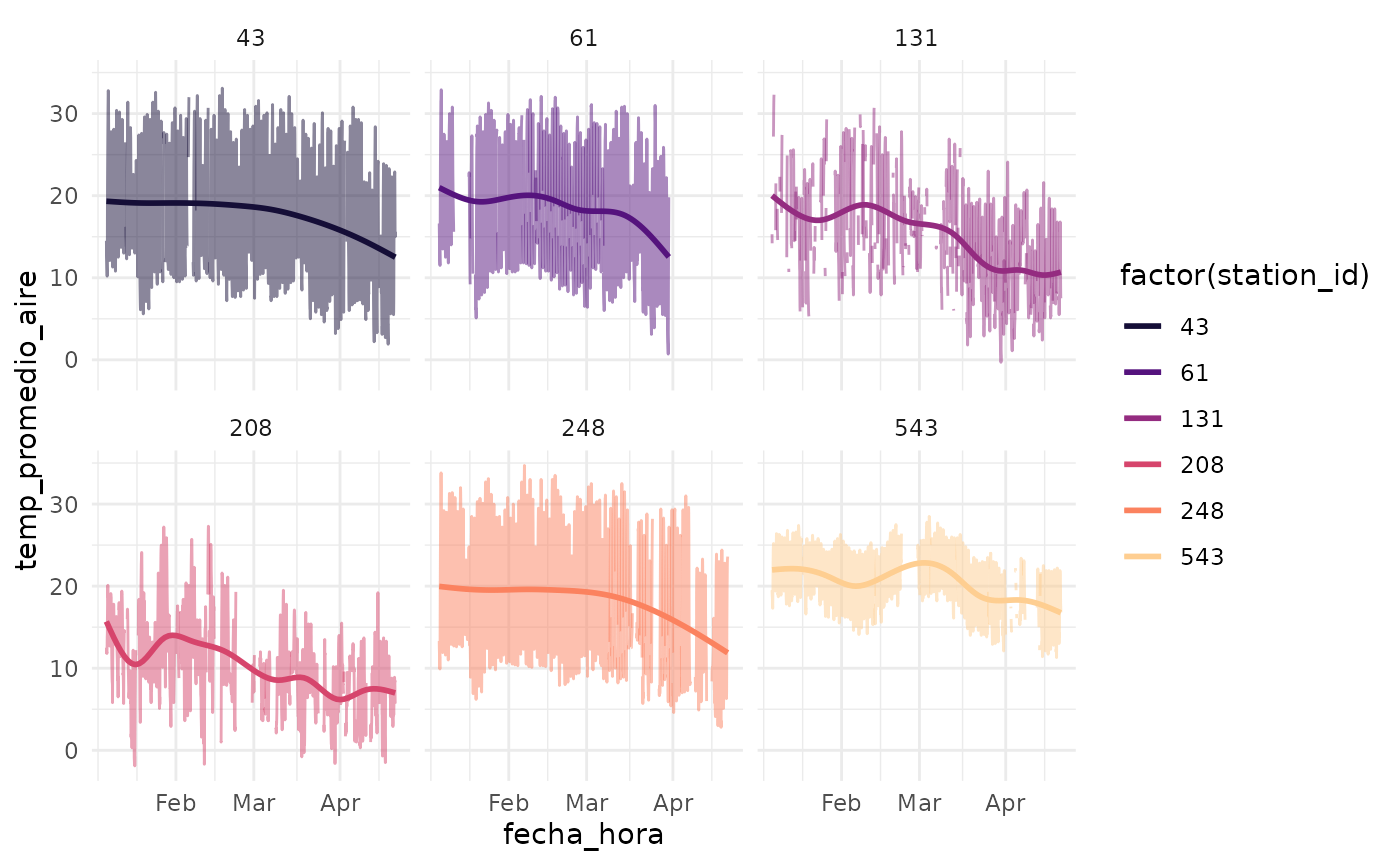
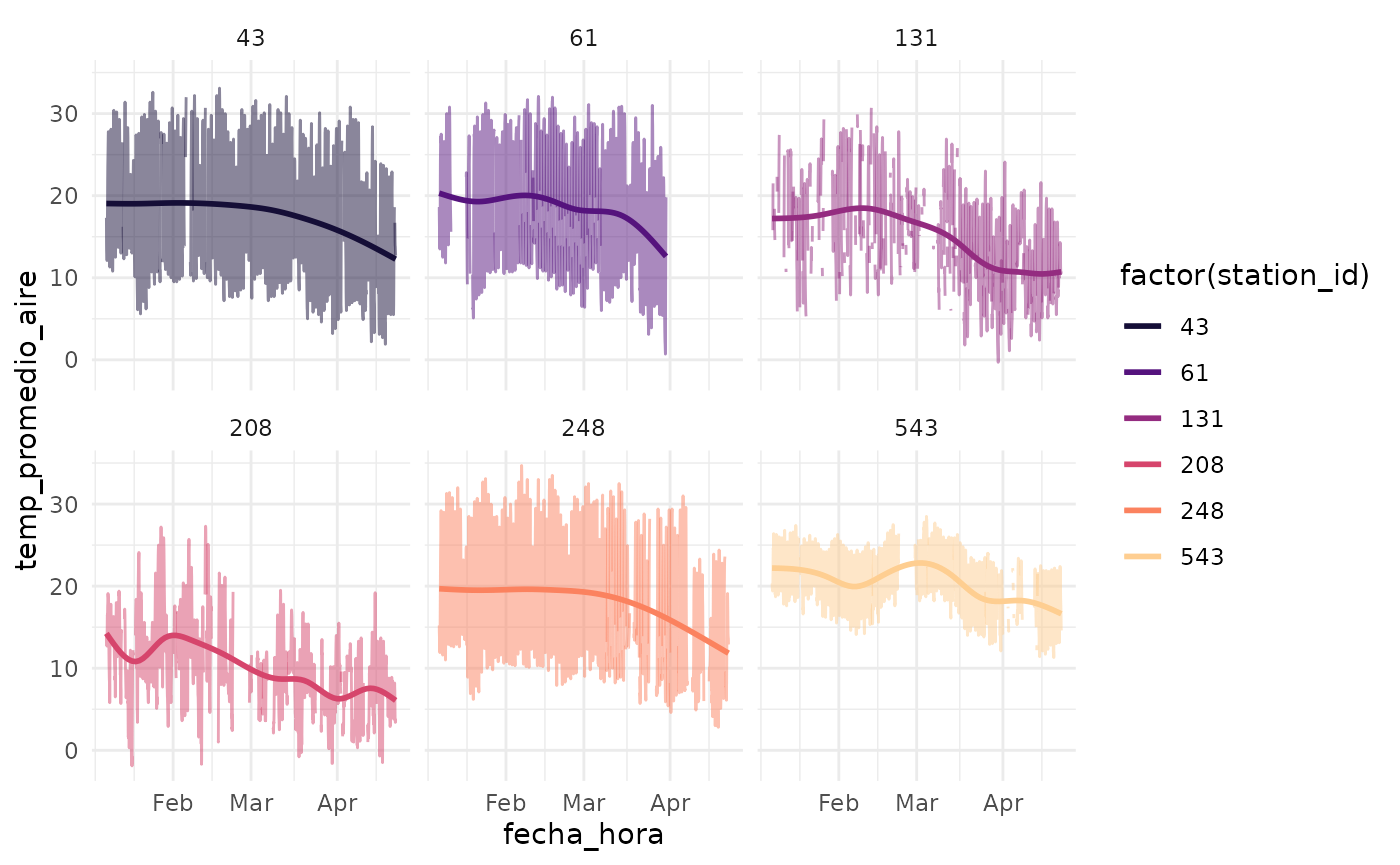
Built site for agrometR: 0.0.0.9000@f2fb011

diff --git a/articles/Introduction-to-agrometR.html b/articles/Introduction-to-agrometR.html
@@ -124,11 +124,11 @@
 
 <span class="va">date_time_start</span> <span class="op">&lt;-</span> <span class="fu"><a href="https://rdrr.io/r/base/format.html" class="external-link">format</a></span><span class="op">(</span><span class="fu"><a href="https://rdrr.io/r/base/Sys.time.html" class="external-link">Sys.Date</a></span><span class="op">(</span><span class="op">)</span> <span class="op">-</span> <span class="va">days_to_plot</span><span class="op">*</span><span class="fl">24</span><span class="op">*</span><span class="fl">60</span><span class="op">*</span><span class="fl">60</span><span class="op">/</span><span class="fl">100000</span>, <span class="st">"%Y-%m-%d"</span><span class="op">)</span>
 <span class="va">date_time_start</span>
-<span class="co">#&gt; [1] "2022-01-07"</span>
+<span class="co">#&gt; [1] "2022-01-08"</span>
 
 <span class="va">date_time_end</span> <span class="op">&lt;-</span> <span class="fu"><a href="https://rdrr.io/r/base/format.html" class="external-link">format</a></span><span class="op">(</span><span class="fu"><a href="https://rdrr.io/r/base/Sys.time.html" class="external-link">Sys.Date</a></span><span class="op">(</span><span class="op">)</span>, <span class="st">"%Y-%m-%d"</span><span class="op">)</span>
 <span class="va">date_time_end</span>
-<span class="co">#&gt; [1] "2022-04-21"</span>
+<span class="co">#&gt; [1] "2022-04-22"</span>
 
 <span class="va">data_stations</span> <span class="op">&lt;-</span> <span class="fu"><a href="../reference/get_agro_data.html">get_agro_data</a></span><span class="op">(</span>
   stations_id <span class="op">=</span> <span class="va">stations</span>, 
@@ -141,17 +141,17 @@
 <span class="co">#&gt; Rows: 14,976</span>
 <span class="co">#&gt; Columns: 13</span>
 <span class="co">#&gt; $ station_id            <span style="color: #949494; font-style: italic;">&lt;dbl&gt;</span> 43, 43, 43, 43, 43, 43, 43, 43, 43, 43, 43, 43, …</span>
-<span class="co">#&gt; $ fecha_hora            <span style="color: #949494; font-style: italic;">&lt;dttm&gt;</span> 2022-01-07 00:00:00, 2022-01-07 01:00:00, 2022-…</span>
-<span class="co">#&gt; $ temp_promedio_aire    <span style="color: #949494; font-style: italic;">&lt;dbl&gt;</span> 14.5, 13.1, 12.4, 12.0, 11.3, 10.8, 10.2, 10.2, …</span>
+<span class="co">#&gt; $ fecha_hora            <span style="color: #949494; font-style: italic;">&lt;dttm&gt;</span> 2022-01-08 00:00:00, 2022-01-08 01:00:00, 2022-…</span>
+<span class="co">#&gt; $ temp_promedio_aire    <span style="color: #949494; font-style: italic;">&lt;dbl&gt;</span> 17.3, 16.2, 14.5, 13.4, 12.9, 12.1, 12.1, 12.2, …</span>
 <span class="co">#&gt; $ precipitacion_horaria <span style="color: #949494; font-style: italic;">&lt;dbl&gt;</span> 0, 0, 0, 0, 0, 0, 0, 0, 0, 0, 0, 0, 0, 0, 0, 0, …</span>
-<span class="co">#&gt; $ humed_rel_promedio    <span style="color: #949494; font-style: italic;">&lt;dbl&gt;</span> 79.2, 84.0, 86.2, 87.2, 87.2, 88.8, 89.0, 90.2, …</span>
-<span class="co">#&gt; $ presion_atmosferica   <span style="color: #949494; font-style: italic;">&lt;dbl&gt;</span> 1013.0, 1013.0, 1012.8, 1012.3, 1011.9, 1012.1, …</span>
-<span class="co">#&gt; $ radiacion_solar_max   <span style="color: #949494; font-style: italic;">&lt;dbl&gt;</span> 0.0, 0.0, 0.0, 0.0, 0.0, 0.0, 1.9, 28.0, 299.0, …</span>
-<span class="co">#&gt; $ veloc_max_viento      <span style="color: #949494; font-style: italic;">&lt;dbl&gt;</span> 0.0, 0.0, 0.0, 0.1, 0.0, 0.0, 0.0, 0.0, 0.5, 0.7…</span>
-<span class="co">#&gt; $ temp_minima           <span style="color: #949494; font-style: italic;">&lt;dbl&gt;</span> 13.9, 12.8, 12.1, 11.8, 11.1, 10.6, 10.0, 10.0, …</span>
-<span class="co">#&gt; $ temp_maxima           <span style="color: #949494; font-style: italic;">&lt;dbl&gt;</span> 15.2, 13.5, 12.7, 12.1, 11.8, 10.9, 10.4, 10.6, …</span>
-<span class="co">#&gt; $ direccion_del_viento  <span style="color: #949494; font-style: italic;">&lt;dbl&gt;</span> 180, 180, 180, 180, 180, 180, 180, 180, 180, 210…</span>
-<span class="co">#&gt; $ grados_dia            <span style="color: #949494; font-style: italic;">&lt;dbl&gt;</span> 868.35, NA, NA, NA, NA, NA, NA, NA, NA, NA, NA, …</span>
+<span class="co">#&gt; $ humed_rel_promedio    <span style="color: #949494; font-style: italic;">&lt;dbl&gt;</span> 75.8, 78.8, 83.2, 86.2, 87.8, 88.2, 89.0, 90.0, …</span>
+<span class="co">#&gt; $ presion_atmosferica   <span style="color: #949494; font-style: italic;">&lt;dbl&gt;</span> 1011.4, 1011.1, 1010.6, 1010.0, 1009.6, 1009.7, …</span>
+<span class="co">#&gt; $ radiacion_solar_max   <span style="color: #949494; font-style: italic;">&lt;dbl&gt;</span> 0.0, 0.0, 0.0, 0.0, 0.0, 0.0, 1.7, 34.3, 270.9, …</span>
+<span class="co">#&gt; $ veloc_max_viento      <span style="color: #949494; font-style: italic;">&lt;dbl&gt;</span> 0.1, 0.1, 0.0, 0.0, 0.0, 0.0, 0.0, 0.0, 1.3, 1.1…</span>
+<span class="co">#&gt; $ temp_minima           <span style="color: #949494; font-style: italic;">&lt;dbl&gt;</span> 16.9, 15.6, 13.8, 13.2, 12.6, 11.9, 11.9, 11.8, …</span>
+<span class="co">#&gt; $ temp_maxima           <span style="color: #949494; font-style: italic;">&lt;dbl&gt;</span> 17.7, 16.6, 15.1, 13.6, 13.1, 12.4, 12.1, 13.0, …</span>
+<span class="co">#&gt; $ direccion_del_viento  <span style="color: #949494; font-style: italic;">&lt;dbl&gt;</span> 180, 180, 180, 180, 180, 180, 180, 180, 180, 193…</span>
+<span class="co">#&gt; $ grados_dia            <span style="color: #949494; font-style: italic;">&lt;dbl&gt;</span> 879.85, NA, NA, NA, NA, NA, NA, NA, NA, NA, NA, …</span>
 <span class="co">#&gt; $ horas_frio            <span style="color: #949494; font-style: italic;">&lt;lgl&gt;</span> NA, NA, NA, NA, NA, NA, NA, NA, NA, NA, NA, NA, …</span>
 
 <span class="va">data_stations</span> |&gt; 
@@ -180,16 +180,16 @@
 
 <span class="va">p</span>
 <span class="co">#&gt; `geom_smooth()` using method = 'gam' and formula 'y ~ s(x, bs = "cs")'</span>
-<span class="co">#&gt; Warning: Removed 2947 rows containing non-finite values (stat_smooth).</span>
-<span class="co">#&gt; Warning: Removed 537 row(s) containing missing values (geom_path).</span></code></pre></div>
+<span class="co">#&gt; Warning: Removed 2944 rows containing non-finite values (stat_smooth).</span>
+<span class="co">#&gt; Warning: Removed 539 row(s) containing missing values (geom_path).</span></code></pre></div>
 <p><img src="Introduction-to-agrometR_files/figure-html/unnamed-chunk-4-1.png" width="700"></p>
 <div class="sourceCode" id="cb5"><pre class="downlit sourceCode r">
 <code class="sourceCode R">
 <span class="va">p</span> <span class="op">+</span>
   <span class="fu"><a href="https://ggplot2.tidyverse.org/reference/facet_wrap.html" class="external-link">facet_wrap</a></span><span class="op">(</span><span class="fu"><a href="https://ggplot2.tidyverse.org/reference/vars.html" class="external-link">vars</a></span><span class="op">(</span><span class="va">station_id</span><span class="op">)</span><span class="op">)</span>
 <span class="co">#&gt; `geom_smooth()` using method = 'gam' and formula 'y ~ s(x, bs = "cs")'</span>
-<span class="co">#&gt; Warning: Removed 2947 rows containing non-finite values (stat_smooth).</span>
-<span class="co">#&gt; Removed 537 row(s) containing missing values (geom_path).</span></code></pre></div>
+<span class="co">#&gt; Warning: Removed 2944 rows containing non-finite values (stat_smooth).</span>
+<span class="co">#&gt; Removed 539 row(s) containing missing values (geom_path).</span></code></pre></div>
 <p><img src="Introduction-to-agrometR_files/figure-html/unnamed-chunk-4-2.png" width="700"></p>
 </div>
 <div class="section level2">
@@ -216,9 +216,9 @@
 <span class="co">#&gt; Rows: 630</span>
 <span class="co">#&gt; Columns: 5</span>
 <span class="co">#&gt; $ station_id            <span style="color: #949494; font-style: italic;">&lt;dbl&gt;</span> 43, 43, 43, 43, 43, 43, 43, 43, 43, 43, 43, 43, …</span>
-<span class="co">#&gt; $ fecha_hora            <span style="color: #949494; font-style: italic;">&lt;dttm&gt;</span> 2022-01-07, 2022-01-08, 2022-01-09, 2022-01-10,…</span>
-<span class="co">#&gt; $ temp_promedio_aire    <span style="color: #949494; font-style: italic;">&lt;dbl&gt;</span> 21.17083, 19.61250, 18.57500, 19.83750, 21.44167…</span>
-<span class="co">#&gt; $ humed_rel_promedio    <span style="color: #949494; font-style: italic;">&lt;dbl&gt;</span> 62.46667, 69.16250, 72.80417, 67.96250, 66.45417…</span>
+<span class="co">#&gt; $ fecha_hora            <span style="color: #949494; font-style: italic;">&lt;dttm&gt;</span> 2022-01-08, 2022-01-09, 2022-01-10, 2022-01-11,…</span>
+<span class="co">#&gt; $ temp_promedio_aire    <span style="color: #949494; font-style: italic;">&lt;dbl&gt;</span> 19.61250, 18.57500, 19.83750, 21.44167, 20.80000…</span>
+<span class="co">#&gt; $ humed_rel_promedio    <span style="color: #949494; font-style: italic;">&lt;dbl&gt;</span> 69.16250, 72.80417, 67.96250, 66.45417, 70.64167…</span>
 <span class="co">#&gt; $ precipitacion_horaria <span style="color: #949494; font-style: italic;">&lt;dbl&gt;</span> 0.0, 0.0, 0.0, 0.0, 0.0, 0.0, 0.0, 0.0, 0.0, 0.0…</span>
   
 
@@ -229,8 +229,8 @@
   <span class="fu"><a href="https://ggplot2.tidyverse.org/reference/ggtheme.html" class="external-link">theme_minimal</a></span><span class="op">(</span><span class="op">)</span> <span class="op">+</span>
   <span class="fu"><a href="https://ggplot2.tidyverse.org/reference/facet_wrap.html" class="external-link">facet_wrap</a></span><span class="op">(</span><span class="fu"><a href="https://ggplot2.tidyverse.org/reference/vars.html" class="external-link">vars</a></span><span class="op">(</span><span class="va">station_id</span><span class="op">)</span><span class="op">)</span>
 <span class="co">#&gt; `geom_smooth()` using method = 'gam' and formula 'y ~ s(x, bs = "cs")'</span>
-<span class="co">#&gt; Warning: Removed 2947 rows containing non-finite values (stat_smooth).</span>
-<span class="co">#&gt; Warning: Removed 27 row(s) containing missing values (geom_path).</span></code></pre></div>
+<span class="co">#&gt; Warning: Removed 2944 rows containing non-finite values (stat_smooth).</span>
+<span class="co">#&gt; Warning: Removed 23 row(s) containing missing values (geom_path).</span></code></pre></div>
 <p><img src="Introduction-to-agrometR_files/figure-html/unnamed-chunk-5-1.png" width="700"></p>
 </div>
   </main><aside class="col-md-3"><nav id="toc"><h2>On this page</h2>

diff --git a/reference/variables_agromet.html b/reference/variables_agromet.html
@@ -1,0 +1,93 @@
+<!DOCTYPE html>
+<!-- Generated by pkgdown: do not edit by hand --><html lang="en"><head><meta http-equiv="Content-Type" content="text/html; charset=UTF-8"><meta charset="utf-8"><meta http-equiv="X-UA-Compatible" content="IE=edge"><meta name="viewport" content="width=device-width, initial-scale=1, shrink-to-fit=no"><meta name="description" content="Variables_agromet"><title>Variables_agromet — variables_agromet • agrometR</title><script src="../deps/jquery-3.6.0/jquery-3.6.0.min.js"></script><meta name="viewport" content="width=device-width, initial-scale=1, shrink-to-fit=no"><link href="../deps/bootstrap-5.1.0/bootstrap.min.css" rel="stylesheet"><script src="../deps/bootstrap-5.1.0/bootstrap.bundle.min.js"></script><!-- Font Awesome icons --><link rel="stylesheet" href="https://cdnjs.cloudflare.com/ajax/libs/font-awesome/5.12.1/css/all.min.css" integrity="sha256-mmgLkCYLUQbXn0B1SRqzHar6dCnv9oZFPEC1g1cwlkk=" crossorigin="anonymous"><link rel="stylesheet" href="https://cdnjs.cloudflare.com/ajax/libs/font-awesome/5.12.1/css/v4-shims.min.css" integrity="sha256-wZjR52fzng1pJHwx4aV2AO3yyTOXrcDW7jBpJtTwVxw=" crossorigin="anonymous"><!-- bootstrap-toc --><script src="https://cdn.rawgit.com/afeld/bootstrap-toc/v1.0.1/dist/bootstrap-toc.min.js"></script><!-- headroom.js --><script src="https://cdnjs.cloudflare.com/ajax/libs/headroom/0.11.0/headroom.min.js" integrity="sha256-AsUX4SJE1+yuDu5+mAVzJbuYNPHj/WroHuZ8Ir/CkE0=" crossorigin="anonymous"></script><script src="https://cdnjs.cloudflare.com/ajax/libs/headroom/0.11.0/jQuery.headroom.min.js" integrity="sha256-ZX/yNShbjqsohH1k95liqY9Gd8uOiE1S4vZc+9KQ1K4=" crossorigin="anonymous"></script><!-- clipboard.js --><script src="https://cdnjs.cloudflare.com/ajax/libs/clipboard.js/2.0.6/clipboard.min.js" integrity="sha256-inc5kl9MA1hkeYUt+EC3BhlIgyp/2jDIyBLS6k3UxPI=" crossorigin="anonymous"></script><!-- search --><script src="https://cdnjs.cloudflare.com/ajax/libs/fuse.js/6.4.6/fuse.js" integrity="sha512-zv6Ywkjyktsohkbp9bb45V6tEMoWhzFzXis+LrMehmJZZSys19Yxf1dopHx7WzIKxr5tK2dVcYmaCk2uqdjF4A==" crossorigin="anonymous"></script><script src="https://cdnjs.cloudflare.com/ajax/libs/autocomplete.js/0.38.0/autocomplete.jquery.min.js" integrity="sha512-GU9ayf+66Xx2TmpxqJpliWbT5PiGYxpaG8rfnBEk1LL8l1KGkRShhngwdXK1UgqhAzWpZHSiYPc09/NwDQIGyg==" crossorigin="anonymous"></script><script src="https://cdnjs.cloudflare.com/ajax/libs/mark.js/8.11.1/mark.min.js" integrity="sha512-5CYOlHXGh6QpOFA/TeTylKLWfB3ftPsde7AnmhuitiTX4K5SqCLBeKro6sPS8ilsz1Q4NRx3v8Ko2IBiszzdww==" crossorigin="anonymous"></script><!-- pkgdown --><script src="../pkgdown.js"></script><meta property="og:title" content="Variables_agromet — variables_agromet"><meta property="og:description" content="Variables_agromet"><!-- mathjax --><script src="https://cdnjs.cloudflare.com/ajax/libs/mathjax/2.7.5/MathJax.js" integrity="sha256-nvJJv9wWKEm88qvoQl9ekL2J+k/RWIsaSScxxlsrv8k=" crossorigin="anonymous"></script><script src="https://cdnjs.cloudflare.com/ajax/libs/mathjax/2.7.5/config/TeX-AMS-MML_HTMLorMML.js" integrity="sha256-84DKXVJXs0/F8OTMzX4UR909+jtl4G7SPypPavF+GfA=" crossorigin="anonymous"></script><!--[if lt IE 9]>
+<script src="https://oss.maxcdn.com/html5shiv/3.7.3/html5shiv.min.js"></script>
+<script src="https://oss.maxcdn.com/respond/1.4.2/respond.min.js"></script>
+<![endif]--></head><body>
+    <a href="#main" class="visually-hidden-focusable">Skip to contents</a>
+    
+
+    <nav class="navbar fixed-top navbar-light navbar-expand-lg bg-light"><div class="container">
+    
+    <a class="navbar-brand me-2" href="../index.html">agrometR</a>
+
+    <small class="nav-text text-muted me-auto" data-bs-toggle="tooltip" data-bs-placement="bottom" title="">0.0.0.9000</small>
+
+    
+    <button class="navbar-toggler" type="button" data-bs-toggle="collapse" data-bs-target="#navbar" aria-controls="navbar" aria-expanded="false" aria-label="Toggle navigation">
+      <span class="navbar-toggler-icon"></span>
+    </button>
+
+    <div id="navbar" class="collapse navbar-collapse ms-3">
+      <ul class="navbar-nav me-auto"><li class="active nav-item">
+  <a class="nav-link" href="../reference/index.html">Reference</a>
+</li>
+<li class="nav-item dropdown">
+  <a href="#" class="nav-link dropdown-toggle" data-bs-toggle="dropdown" role="button" aria-expanded="false" aria-haspopup="true" id="dropdown-articles">Articles</a>
+  <div class="dropdown-menu" aria-labelledby="dropdown-articles">
+    <a class="dropdown-item" href="../articles/Introduction-to-agrometR.html">Introduction to agrometR</a>
+  </div>
+</li>
+      </ul><form class="form-inline my-2 my-lg-0" role="search">
+        <input type="search" class="form-control me-sm-2" aria-label="Toggle navigation" name="search-input" data-search-index="../search.json" id="search-input" placeholder="Search for" autocomplete="off"></form>
+
+      <ul class="navbar-nav"><li class="nav-item">
+  <a class="external-link nav-link" href="https://github.com/jbkunst/agrometR/" aria-label="github">
+    <span class="fab fa fab fa-github fa-lg"></span>
+     
+  </a>
+</li>
+      </ul></div>
+
+    
+  </div>
+</nav><div class="container template-reference-topic">
+<div class="row">
+  <main id="main" class="col-md-9"><div class="page-header">
+      <img src="" class="logo" alt=""><h1>Variables_agromet</h1>
+      <small class="dont-index">Source: <a href="https://github.com/jbkunst/agrometR/blob/HEAD/R/data.R" class="external-link"><code>R/data.R</code></a></small>
+      <div class="d-none name"><code>variables_agromet.Rd</code></div>
+    </div>
+
+    <div class="ref-description section level2">
+    <p>Variables_agromet</p>
+    </div>
+
+    <div class="section level2">
+    <h2 id="ref-usage">Usage<a class="anchor" aria-label="anchor" href="#ref-usage"></a></h2>
+    <div class="sourceCode"><pre class="sourceCode r"><code><span class="va">variables_agromet</span></code></pre></div>
+    </div>
+
+    <div class="section level2">
+    <h2 id="format">Format<a class="anchor" aria-label="anchor" href="#format"></a></h2>
+    <p>A <code>data frame</code> with 12 observations and 3 variables.</p>
+    </div>
+    <div class="section level2">
+    <h2 id="variables">Variables<a class="anchor" aria-label="anchor" href="#variables"></a></h2>
+    
+
+
+<ul><li><p><code>columna</code>: Nombre de la columna.</p></li>
+<li><p><code>unit</code>: Unidad de medida.</p></li>
+<li><p><code>description</code>: Descripción de la columna.</p></li>
+</ul></div>
+
+  </main><aside class="col-md-3"><nav id="toc"><h2>On this page</h2>
+    </nav></aside></div>
+
+
+    <footer><div class="pkgdown-footer-left">
+  <p></p><p>Developed by Joshua Kunst, Francisco Zambrano.</p>
+</div>
+
+<div class="pkgdown-footer-right">
+  <p></p><p>Site built with <a href="https://pkgdown.r-lib.org/" class="external-link">pkgdown</a> 2.0.2.</p>
+</div>
+
+    </footer></div>
+
+  
+
+  
+
+  </body></html>
+

diff --git a/reference/estaciones_agromet.html b/reference/estaciones_agromet.html
@@ -66,9 +66,14 @@
     
 
 
-<ul><li><p><code>ema</code>: Id.</p></li>
-<li><p><code>name</code>: Name.</p></li>
-<li><p><code>heigth</code>: Heigth.</p></li>
+<ul><li><p><code> ema </code> : ema.</p></li>
+<li><p><code> institucion </code> : institucion.</p></li>
+<li><p><code> nombre_ema </code> : nombre_ema.</p></li>
+<li><p><code> comuna </code> : comuna.</p></li>
+<li><p><code> region </code> : region.</p></li>
+<li><p><code> latitud </code> : latitud.</p></li>
+<li><p><code> longitud </code> : longitud.</p></li>
+<li><p><code> fecha_de_alta </code> : fecha_de_alta.</p></li>
 </ul></div>
 
   </main><aside class="col-md-3"><nav id="toc"><h2>On this page</h2>

diff --git a/reference/index.html b/reference/index.html
@@ -67,6 +67,11 @@
           <code><a href="get_agro_data.html">get_agro_data()</a></code> <code><a href="get_agro_data.html">get_agro_data_from_api()</a></code> 
         </dt>
         <dd>Get data from agromet.cl API</dd>
+      </dl><dl><dt>
+          
+          <code><a href="variables_agromet.html">variables_agromet</a></code> 
+        </dt>
+        <dd>Variables_agromet</dd>
       </dl></div>
   </main></div>
 
